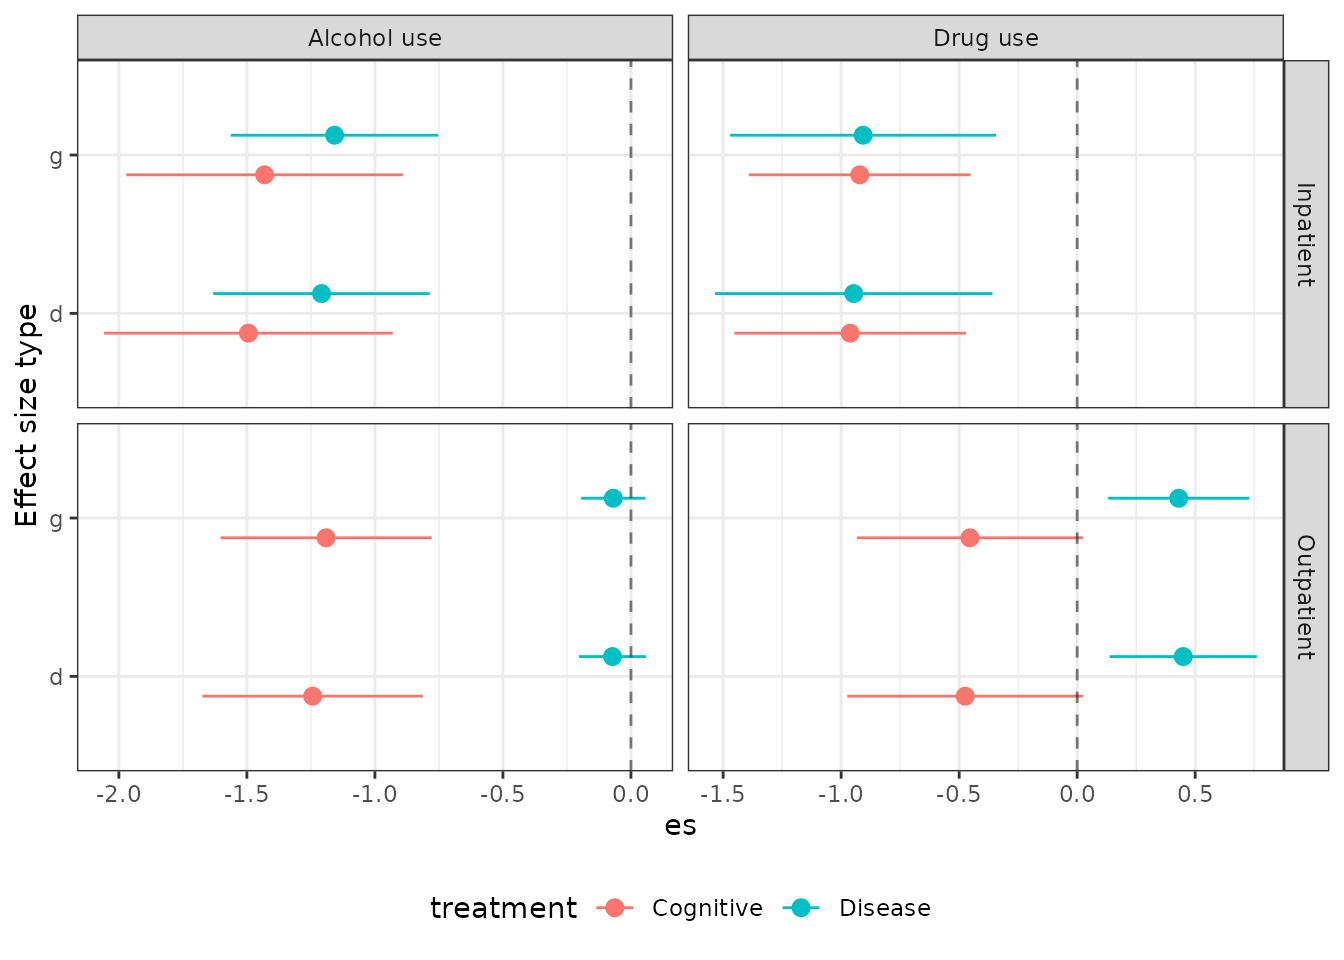
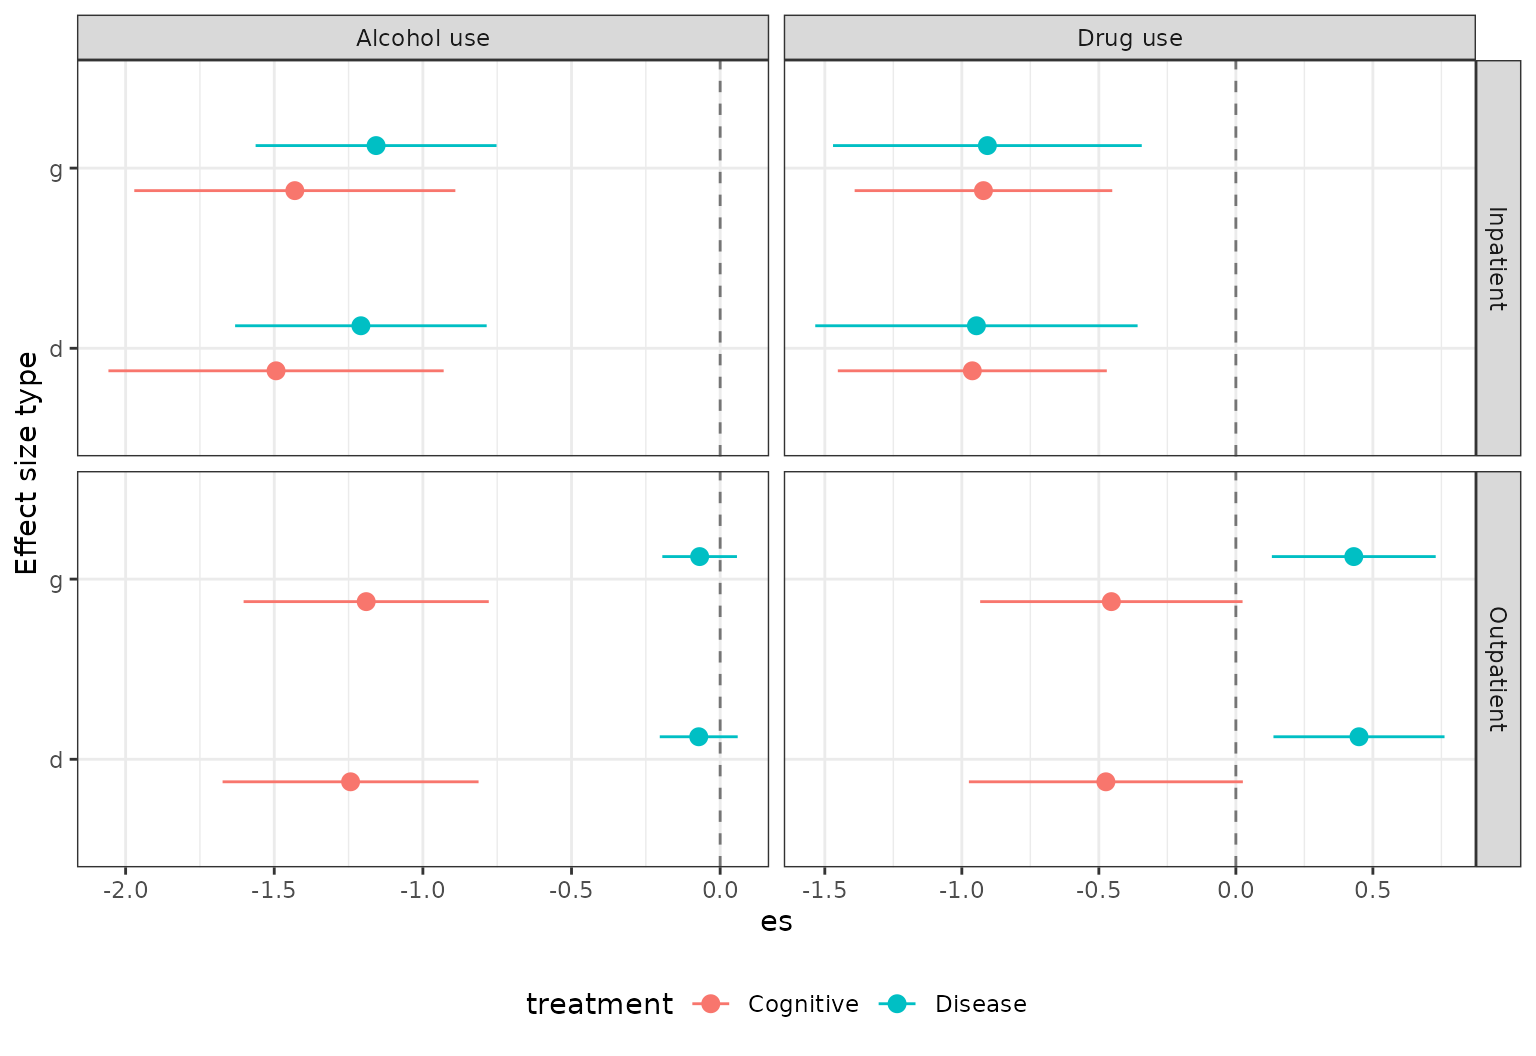
Deploying to gh-pages from @ MikkelVembye/VIVECampbell@52800865f09b3e8cad7131f3066f86f53b651fbd 🚀

diff --git a/articles/Entering-data.html b/articles/Entering-data.html
@@ -128,12 +128,12 @@ vs. outpatient), which again is nested within setting (i.e., Alcohol
 use, Drug use, Social and family, Psychological functioning).</p>
 <p>Important for understanding the use of <code>group_by</code>
 function, when we calculate effect sizes.</p>
-<div id="scjmvsystm" style="padding-left:0px;padding-right:0px;padding-top:10px;padding-bottom:10px;overflow-x:auto;overflow-y:auto;width:auto;height:auto;">
+<div id="fqazhcijsc" style="padding-left:0px;padding-right:0px;padding-top:10px;padding-bottom:10px;overflow-x:auto;overflow-y:auto;width:auto;height:auto;">
 <style>html {
   font-family: -apple-system, BlinkMacSystemFont, 'Segoe UI', Roboto, Oxygen, Ubuntu, Cantarell, 'Helvetica Neue', 'Fira Sans', 'Droid Sans', Arial, sans-serif;
 }
 
-#scjmvsystm .gt_table {
+#fqazhcijsc .gt_table {
   display: table;
   border-collapse: collapse;
   margin-left: auto;
@@ -158,7 +158,7 @@ function, when we calculate effect sizes.</p>
   border-left-color: #D3D3D3;
 }
 
-#scjmvsystm .gt_heading {
+#fqazhcijsc .gt_heading {
   background-color: #FFFFFF;
   text-align: left;
   border-bottom-color: #FFFFFF;
@@ -170,12 +170,12 @@ function, when we calculate effect sizes.</p>
   border-right-color: #D3D3D3;
 }
 
-#scjmvsystm .gt_caption {
+#fqazhcijsc .gt_caption {
   padding-top: 4px;
   padding-bottom: 4px;
 }
 
-#scjmvsystm .gt_title {
+#fqazhcijsc .gt_title {
   color: #333333;
   font-size: 125%;
   font-weight: initial;
@@ -187,7 +187,7 @@ function, when we calculate effect sizes.</p>
   border-bottom-width: 0;
 }
 
-#scjmvsystm .gt_subtitle {
+#fqazhcijsc .gt_subtitle {
   color: #333333;
   font-size: 85%;
   font-weight: initial;
@@ -199,13 +199,13 @@ function, when we calculate effect sizes.</p>
   border-top-width: 0;
 }
 
-#scjmvsystm .gt_bottom_border {
+#fqazhcijsc .gt_bottom_border {
   border-bottom-style: solid;
   border-bottom-width: 2px;
   border-bottom-color: #D3D3D3;
 }
 
-#scjmvsystm .gt_col_headings {
+#fqazhcijsc .gt_col_headings {
   border-top-style: solid;
   border-top-width: 2px;
   border-top-color: #D3D3D3;
@@ -220,7 +220,7 @@ function, when we calculate effect sizes.</p>
   border-right-color: #D3D3D3;
 }
 
-#scjmvsystm .gt_col_heading {
+#fqazhcijsc .gt_col_heading {
   color: #333333;
   background-color: #FFFFFF;
   font-size: 100%;
@@ -240,7 +240,7 @@ function, when we calculate effect sizes.</p>
   overflow-x: hidden;
 }
 
-#scjmvsystm .gt_column_spanner_outer {
+#fqazhcijsc .gt_column_spanner_outer {
   color: #333333;
   background-color: #FFFFFF;
   font-size: 100%;
@@ -252,15 +252,15 @@ function, when we calculate effect sizes.</p>
   padding-right: 4px;
 }
 
-#scjmvsystm .gt_column_spanner_outer:first-child {
+#fqazhcijsc .gt_column_spanner_outer:first-child {
   padding-left: 0;
 }
 
-#scjmvsystm .gt_column_spanner_outer:last-child {
+#fqazhcijsc .gt_column_spanner_outer:last-child {
   padding-right: 0;
 }
 
-#scjmvsystm .gt_column_spanner {
+#fqazhcijsc .gt_column_spanner {
   border-bottom-style: solid;
   border-bottom-width: 2px;
   border-bottom-color: #D3D3D3;
@@ -272,7 +272,7 @@ function, when we calculate effect sizes.</p>
   width: 100%;
 }
 
-#scjmvsystm .gt_group_heading {
+#fqazhcijsc .gt_group_heading {
   padding-top: 8px;
   padding-bottom: 8px;
   padding-left: 5px;
@@ -298,7 +298,7 @@ function, when we calculate effect sizes.</p>
   text-align: left;
 }
 
-#scjmvsystm .gt_empty_group_heading {
+#fqazhcijsc .gt_empty_group_heading {
   padding: 0.5px;
   color: #333333;
   background-color: #FFFFFF;
@@ -313,15 +313,15 @@ function, when we calculate effect sizes.</p>
   vertical-align: middle;
 }
 
-#scjmvsystm .gt_from_md > :first-child {
+#fqazhcijsc .gt_from_md > :first-child {
   margin-top: 0;
 }
 
-#scjmvsystm .gt_from_md > :last-child {
+#fqazhcijsc .gt_from_md > :last-child {
   margin-bottom: 0;
 }
 
-#scjmvsystm .gt_row {
+#fqazhcijsc .gt_row {
   padding-top: 8px;
   padding-bottom: 8px;
   padding-left: 5px;
@@ -340,7 +340,7 @@ function, when we calculate effect sizes.</p>
   overflow-x: hidden;
 }
 
-#scjmvsystm .gt_stub {
+#fqazhcijsc .gt_stub {
   color: #333333;
   background-color: #FFFFFF;
   font-size: 100%;
@@ -353,7 +353,7 @@ function, when we calculate effect sizes.</p>
   padding-right: 5px;
 }
 
-#scjmvsystm .gt_stub_row_group {
+#fqazhcijsc .gt_stub_row_group {
   color: #333333;
   background-color: #FFFFFF;
   font-size: 100%;
@@ -367,11 +367,11 @@ function, when we calculate effect sizes.</p>
   vertical-align: top;
 }
 
-#scjmvsystm .gt_row_group_first td {
+#fqazhcijsc .gt_row_group_first td {
   border-top-width: 2px;
 }
 
-#scjmvsystm .gt_summary_row {
+#fqazhcijsc .gt_summary_row {
   color: #333333;
   background-color: #FFFFFF;
   text-transform: inherit;
@@ -381,16 +381,16 @@ function, when we calculate effect sizes.</p>
   padding-right: 5px;
 }
 
-#scjmvsystm .gt_first_summary_row {
+#fqazhcijsc .gt_first_summary_row {
   border-top-style: solid;
   border-top-color: #D3D3D3;
 }
 
-#scjmvsystm .gt_first_summary_row.thick {
+#fqazhcijsc .gt_first_summary_row.thick {
   border-top-width: 2px;
 }
 
-#scjmvsystm .gt_last_summary_row {
+#fqazhcijsc .gt_last_summary_row {
   padding-top: 8px;
   padding-bottom: 8px;
   padding-left: 5px;
@@ -400,7 +400,7 @@ function, when we calculate effect sizes.</p>
   border-bottom-color: #D3D3D3;
 }
 
-#scjmvsystm .gt_grand_summary_row {
+#fqazhcijsc .gt_grand_summary_row {
   color: #333333;
   background-color: #FFFFFF;
   text-transform: inherit;
@@ -410,7 +410,7 @@ function, when we calculate effect sizes.</p>
   padding-right: 5px;
 }
 
-#scjmvsystm .gt_first_grand_summary_row {
+#fqazhcijsc .gt_first_grand_summary_row {
   padding-top: 8px;
   padding-bottom: 8px;
   padding-left: 5px;
@@ -420,11 +420,11 @@ function, when we calculate effect sizes.</p>
   border-top-color: #D3D3D3;
 }
 
-#scjmvsystm .gt_striped {
+#fqazhcijsc .gt_striped {
   background-color: rgba(128, 128, 128, 0.05);
 }
 
-#scjmvsystm .gt_table_body {
+#fqazhcijsc .gt_table_body {
   border-top-style: solid;
   border-top-width: 2px;
   border-top-color: #D3D3D3;
@@ -433,7 +433,7 @@ function, when we calculate effect sizes.</p>
   border-bottom-color: #D3D3D3;
 }
 
-#scjmvsystm .gt_footnotes {
+#fqazhcijsc .gt_footnotes {
   color: #333333;
   background-color: #FFFFFF;
   border-bottom-style: none;
@@ -447,7 +447,7 @@ function, when we calculate effect sizes.</p>
   border-right-color: #D3D3D3;
 }
 
-#scjmvsystm .gt_footnote {
+#fqazhcijsc .gt_footnote {
   margin: 0px;
   font-size: 90%;
   padding-left: 4px;
@@ -456,7 +456,7 @@ function, when we calculate effect sizes.</p>
   padding-right: 5px;
 }
 
-#scjmvsystm .gt_sourcenotes {
+#fqazhcijsc .gt_sourcenotes {
   color: #333333;
   background-color: #FFFFFF;
   border-bottom-style: none;
@@ -470,7 +470,7 @@ function, when we calculate effect sizes.</p>
   border-right-color: #D3D3D3;
 }
 
-#scjmvsystm .gt_sourcenote {
+#fqazhcijsc .gt_sourcenote {
   font-size: 90%;
   padding-top: 4px;
   padding-bottom: 4px;
@@ -478,64 +478,64 @@ function, when we calculate effect sizes.</p>
   padding-right: 5px;
 }
 
-#scjmvsystm .gt_left {
+#fqazhcijsc .gt_left {
   text-align: left;
 }
 
-#scjmvsystm .gt_center {
+#fqazhcijsc .gt_center {
   text-align: center;
 }
 
-#scjmvsystm .gt_right {
+#fqazhcijsc .gt_right {
   text-align: right;
   font-variant-numeric: tabular-nums;
 }
 
-#scjmvsystm .gt_font_normal {
+#fqazhcijsc .gt_font_normal {
   font-weight: normal;
 }
 
-#scjmvsystm .gt_font_bold {
+#fqazhcijsc .gt_font_bold {
   font-weight: bold;
 }
 
-#scjmvsystm .gt_font_italic {
+#fqazhcijsc .gt_font_italic {
   font-style: italic;
 }
 
-#scjmvsystm .gt_super {
+#fqazhcijsc .gt_super {
   font-size: 65%;
 }
 
-#scjmvsystm .gt_footnote_marks {
+#fqazhcijsc .gt_footnote_marks {
   font-style: italic;
   font-weight: normal;
   font-size: 75%;
   vertical-align: 0.4em;
 }
 
-#scjmvsystm .gt_asterisk {
+#fqazhcijsc .gt_asterisk {
   font-size: 100%;
   vertical-align: 0;
 }
 
-#scjmvsystm .gt_indent_1 {
+#fqazhcijsc .gt_indent_1 {
   text-indent: 5px;
 }
 
-#scjmvsystm .gt_indent_2 {
+#fqazhcijsc .gt_indent_2 {
   text-indent: 10px;
 }
 
-#scjmvsystm .gt_indent_3 {
+#fqazhcijsc .gt_indent_3 {
   text-indent: 15px;
 }
 
-#scjmvsystm .gt_indent_4 {
+#fqazhcijsc .gt_indent_4 {
   text-indent: 20px;
 }
 
-#scjmvsystm .gt_indent_5 {
+#fqazhcijsc .gt_indent_5 {
   text-indent: 25px;
 }
 </style>
@@ -972,7 +972,7 @@ group only<a class="anchor" aria-label="anchor" href="#cluster-bias-correction-w
 <span>  <span class="fu"><a href="https://ggplot2.tidyverse.org/reference/ggtheme.html" class="external-link">theme_bw</a></span><span class="op">(</span><span class="op">)</span> <span class="op">+</span></span>
 <span>  <span class="fu"><a href="https://ggplot2.tidyverse.org/reference/theme.html" class="external-link">theme</a></span><span class="op">(</span>legend.position <span class="op">=</span> <span class="st">"bottom"</span><span class="op">)</span> <span class="op">+</span></span>
 <span>  <span class="fu"><a href="https://ggplot2.tidyverse.org/reference/labs.html" class="external-link">ylab</a></span><span class="op">(</span><span class="st">"Effect size type"</span><span class="op">)</span></span></code></pre></div>
-<p><img src="Entering-data_files/figure-html/unnamed-chunk-6-1.png" width="672"></p>
+<p><img src="Entering-data_files/figure-html/unnamed-chunk-6-1.png" width="768"></p>
 </div>
 <div class="section level2">
 <h2 class="unnumbered" id="reference">Reference<a class="anchor" aria-label="anchor" href="#reference"></a>
